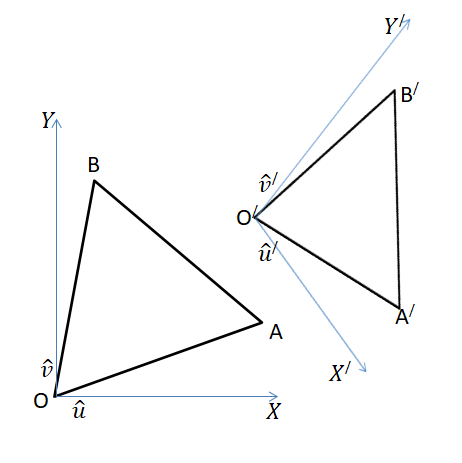
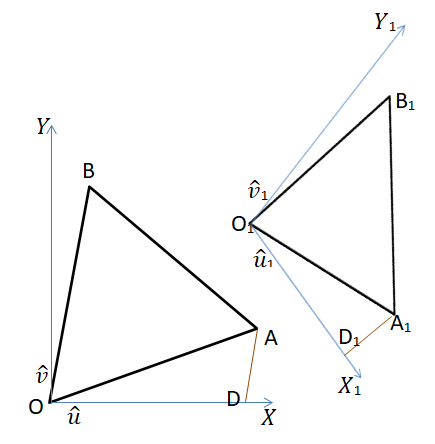
update primary to Icos

diff --git a/content/snippets/gamelets/Geodesic_Math.md b/content/snippets/gamelets/Geodesic_Math.md
@@ -125,9 +125,9 @@ Fig 12 Symmetry Rotations 0 <sup>o</sup>, 120<sup>o</sup>, -120<sup>o</sup>
 
 We also need to consider rotations 120<sup>o</sup> and -120<sup>o</sup> about the center of the triangle OAB.
 
-Let P have position vector *xi*&#8407; + *yj*&#8407; which after a rotation of 120<sup>o</sup> maps to P<sup>/</sup> and after a rotation of -120<sup>o</sup> maps to P<sup>//</sup>
+Let P have position vector *xi*&#8407; + *yj*&#8407; which after a rotation of 120<sup>o</sup> maps to P<sub>1</sub> and after a rotation of -120<sup>o</sup> maps to P<sup>//</sup>
 
-P<sup>/</sup> = m*i*&#8407; + n*j*&#8407; - *yi*&#8407; + *xk*&#8407;  
+P<sub>1</sub> = m*i*&#8407; + n*j*&#8407; - *yi*&#8407; + *xk*&#8407;  
 = m*i*&#8407; + n*j*&#8407; - *yi*&#8407; - *xi*&#8407; + *xj*&#8407;  
 = (m - *x* - *y*)*i*&#8407; + (n + *x*)j*&#8407; 
 
@@ -318,14 +318,46 @@ Using rotation symmetry and rotating about the center of OAB 120<sup>o</sup> and
 ![Carteian](/img/snippets/geo27.png)  
 Fig 25 Cartesian Coordinates
 
-Fig 25 shows that the cartesian coordinates of a point with position iso-vector *xi*&#8407; + *yj*&#8407; has cartesian coordinates (*x* + 0.5*y*, 0.5&sqrt(3)y)
+Fig 25 shows that the cartesian coordinates of a point with position iso-vector *xi*&#8407; + *yj*&#8407;  
+has cartesian coordinates (*x* + 0.5*y*, 0.5&sqrt;(3)y)
 
 ### Mapping Primary Triangle to Icosahedron Face
 
 ![Primary Map](/img/snippets/geo28.png)  
 Fig 26 Primary Triangle Mapping to Icosahedron Face
 
-Let OAB be an equilateral triangle with a Cartesian frame of reference with units vectors *u*&#8407 and *v*&#8407 along the *X* and *Y* axes respectively. O<sup>/</sup>A<sup>/</sup>B<sup>/</sup> and the frame of reference *X<sup>/</sup>Y<sup>/</sup>* are formed by some rotation of OAB and *XY* in 3D space.
+Let OAB be an equilateral triangle with a Cartesian frame of reference with units vectors *u*&#8407 and *v*&#8407 along the *X* and *Y* axes respectively and *i*&#8407; and *j*&#8407; the usual iso-vectors. O<sub>1</sub>A<sub>1</sub>B<sub>1</sub> and the frame of reference *X<sub>1</sub>Y<sub>1</sub>* are formed by a rotation and scaling of OAB and *XY* in 3D space with *u<sub>1</sub>*&#8407 and *v<sub>1</sub>*&#8407 and *i<sub>1</sub>*&#8407; and *j<sub>1</sub>*&#8407; the corresponding Cartesian and iso Vectors.
+
+Let P be any point with cartesian position vector *xu*&#8407; + *yv*&#8407;.  Let *d* be the scaling of O<sub>1</sub>A<sub>1</sub>B<sub>1</sub> to OAB. The corresponding point P<sub>1</sub> to P with have position vector *xdu&#8407;<sub>1</sub>* + *ydv*&#8407;<sub>1</sub>. 
+
+In iso_vectors OA = m*i*&#8407; + n*j*&#8407; and OB = -n*i*&#8407; + (m + n)*j*&#8407; and so in Cartesian vectors
+
+OA = (m + 0.5n)*u*&#8407; + 0.5&sqrt;(3)n*v*&#8407; and 
+
+OB = (0.5(m + n) - n)*u*&#8407; + 0.5&sqrt;(3)(m + n)*v*&#8407; = 0.5(m - n)*u*&#8407; + 0.5&sqrt;(3)(m + n)*v*&#8407;
+
+(m + 0.5n)OB = (m + 0.5n)(0.5(m - n))*u*&#8407; + 0.5&sqrt;(3)(m + n)(m + 0.5n)*uv&#8407;
+
+(0.5(m - n))OA = (m + 0.5)(0.5(m - n))*u*&#8407; + 0.5&sqrt;(3)n(0.5(m - n))*v*&#8407;
+
+(m + 0.5n)OB - (0.5(m + n) - n)OA = 0.5&sqrt;(3)((m + n)(m + 0.5n) - n(0.5(m - n)))*v*&#8407;
+
+(2m + n)OB - (m + n)OA = &sqrt;(3)(m<sup>2</sup> + 0.5n<sup>2</sup> + mn + 0.5mn - 0.5mn + 0.5n<sup>2</sup>)*v*&#8407;
+
+(2m + n)OB - (m + n)OA = &sqrt;(3)(m<sup>2</sup> + n<sup>2</sup> + mn)*v*&#8407;
+
+from which we can find *v*&#8407; and then *u*&#8407; in terms of OA and OB. 
+
+Since O<sub>1</sub>A<sub>1</sub> = md*i<sub>1</sub>*&#8407; + nd*j<sub>1</sub>*&#8407; and   
+OB = -nd*i<sub>1</sub>*&#8407; + (m + n)d*j<sub>1</sub>*&#8407;
+
+we can use this method to find *v<sub>1</sub>*&#8407; and then *u<sub>1</sub>*&#8407; in terms of O<sub>1</sub>A<sub>1</sub> and O<sub>1</sub>B<sub>1</sub> so that we can determine P<sub>1</sub>. 
+
+
+
+
+
+
 
 
 
